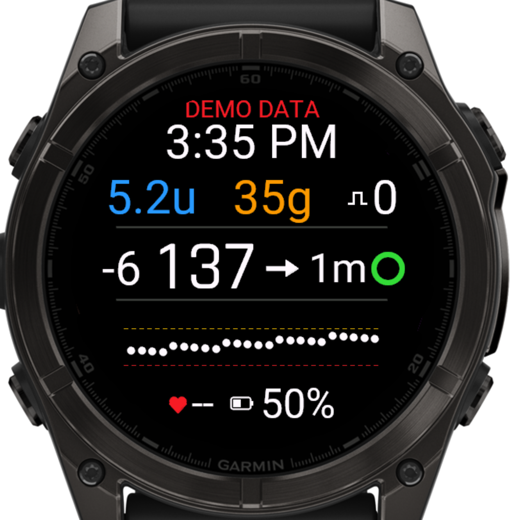
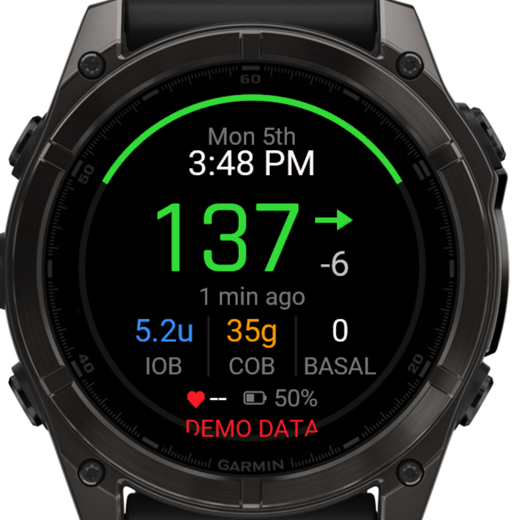
Watch face redesign: glucose hero layout
Big glucose with the arrow and delta beside it and the reading age in words
underneath; loop status moves from a small ring to an arc along the top edge;
small grey date above the time; IOB / COB / basal as coloured values over
small labels with thin dividers; grey battery. The 2-hour graph is gone.
In-range glucose is now green. The watch app's data screen uses the same
layout. Always-on mode is unchanged.

Changed region(s): [[0.1846, 0.1538, 0.8, 0.8615], [0.7077, 0.2769, 0.7385, 0.3077]]

diff --git a/README.md b/README.md
@@ -11,8 +11,9 @@ the way Trio's Apple Watch app can.
 <img src="docs/screenshots/06-done.png" width="200">
 </p>
 
-- **Watch face:** time; IOB / COB / temp basal; delta, glucose, trend arrow, loop age and loop ring;
-  2-hour graph; heart rate and battery. Dims to time / glucose / arrow in always-on mode, shifting each
+- **Watch face:** large glucose with trend arrow, delta and reading age; loop status as an arc along the top
+  (green / yellow / red); date and time; IOB / COB / basal; heart rate and battery.
+  Dims to time / glucose / arrow in always-on mode, shifting each
   minute to avoid AMOLED burn-in.
 - **Watch app:** touch and hold the face → **tap 3 times** → set the amount → START → **hold START** to deliver.
   It closes itself after 20 seconds without input, so an accidental launch ends on its own.
